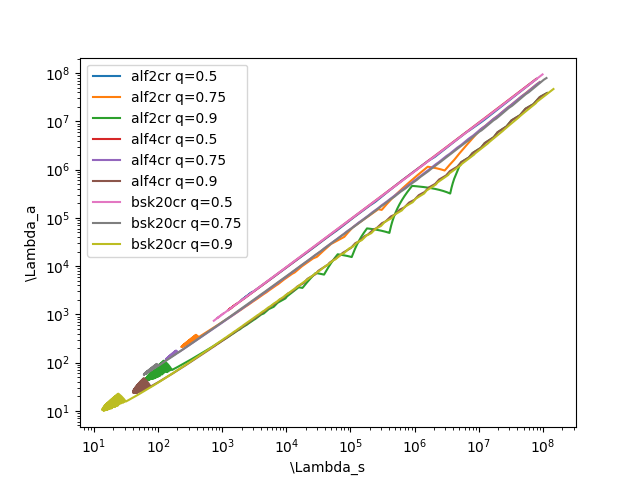
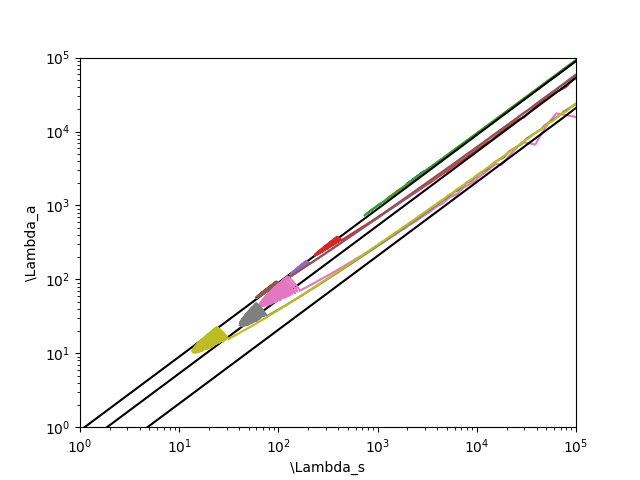
fits added over plots, fixed q and lambda_a definitions to be consistent

diff --git a/fits.py b/fits.py
@@ -1,29 +1,39 @@
 import numpy as np
 
 class YagiYunes:
-    def __init__(self):
+    def __init__(self, q):
+        self.q = q
 
         self.b = np.array([-27.7408, 8.42358, 122.686, -19.7551, -175.496, 133.708])
-        self.c = np.zeros([-25.5593, 5.58527, 92.0337, 26.8586, -70.247, -56.3076])
+        self.c = np.array([-25.5593, 5.58527, 92.0337, 26.8586, -70.247, -56.3076])
 
-        self.b = np.reshape(self.b, shape=(3, 2))
-        self.c = np.reshape(self.c, shape=(3, 2))
+        self.b = np.reshape(self.b, newshape=(3, 2))
+        self.c = np.reshape(self.c, newshape=(3, 2))
 
         self.n = 0.743
 
-    def f(self, q):
-        numerator = 1 - q**(10 / (3 - self.n))
-        denominator = 1 + q**(10 / (3 - self.n))
+    def f(self):
+        numerator = 1 - self.q**(10 / (3 - self.n))
+        denominator = 1 + self.q**(10 / (3 - self.n))
         return numerator / denominator
 
-    def __call__(self, lambda_s, q):
+    def func(self, lambda_s):
         numerator_sum = 0
         denominator_sum = 0
         for i in range(1, 4):
-            for j in range(1, 4):
-                numerator_sum += self.b[i-1, j-1] * q**j * lambda_s**(-i / 5)
-                denominator_sum += self.c[i-1, j-1] * q**j * lambda_s**(-i / 5)
+            for j in range(1, 3):
+                numerator_sum += (self.b[i-1, j-1] * self.q**j * lambda_s**(-i / 5))
+                denominator_sum += (self.c[i-1, j-1] * self.q**j * lambda_s**(-i / 5))
 
         fraction = (1 + numerator_sum) / (1 + denominator_sum)
-        result = self.f(q=q) * lambda_s * fraction
+        result = self.f() * lambda_s * fraction
         return result
+
+    def plot(self, ax, **kwargs):
+        lambda_s = np.linspace(*ax.get_xlim(), 1000, dtype=complex) # complex for fractional root in numpy
+        lambda_a = self.func(lambda_s)
+
+        lambda_s = np.real(lambda_s) # imaginary parts should be all zero
+        lambda_a = np.real(lambda_a)
+
+        ax.plot(lambda_s, lambda_a, label='Yagi & Yunes fit for q=' + str(self.q), color='black', **kwargs)

diff --git a/main.py b/main.py
@@ -2,25 +2,36 @@ import matplotlib.pyplot as plt
 
 from data_loader import DataLoader
 from eos import EOS
+from fits import YagiYunes
 
+# plt.rcParams.update({
+#     "text.usetex": True,
+#     "font.family": "Helvetica"
+# })
 
 def plot_main(names, qs):
     fig, ax = plt.subplots(1, 1)
-    for name in names:
-        for q in qs:
+    for q in qs:
+        for name in names:
             data = DataLoader('data/macro-' + name + '.csv')
             eos = EOS(data, name=name, q=q)
             eos.plot(ax=ax)
 
-    # ax.set_ylim((10, 10000))
-    # ax.set_xlim((10, 10000))
+        fit = YagiYunes(q=q)
+        fit.plot(ax=ax)
+
+    ax_min = 1
+    ax_max = 1e5
+
+    ax.set_ylim((ax_min, ax_max))
+    ax.set_xlim((ax_min, ax_max))
 
     ax.set_xscale('log')
     ax.set_yscale('log')
 
     ax.set_xlabel(r'\Lambda_s')
     ax.set_ylabel(r'\Lambda_a')
-    plt.legend()
+    # plt.legend()
 
     plt.savefig('plots/plot.png')
 
@@ -44,4 +55,5 @@ def plot_raw(names):
 names = ['alf2cr', 'alf4cr', 'bsk20cr']
 qs = [0.5, 0.75, 0.9]
 
-plot_raw(names=names)
+plot_main(names=names, qs=qs)
+# plot_raw(names=names)

diff --git a/eos.py b/eos.py
@@ -11,7 +11,7 @@ class EOS:
         self.lambda_f = sp.interpolate.interp1d(x=self.ms, y=self.Lambdas)
 
         m1 = np.linspace(np.min(self.ms), np.max(self.ms), 10000)
-        m2 = m1 / self.q
+        m2 = m1 * self.q
 
         filter = (m2 > np.min(self.ms)) & (m2 < np.max(self.ms)) # so that lambda can be interpolated over m2
 
@@ -21,8 +21,10 @@ class EOS:
         lambda_m1 = self.lambda_f(self.m1)
         lambda_m2 = self.lambda_f(self.m2)
 
-        self.lambda_s = (lambda_m1 + lambda_m2) / 2
-        self.lambda_a = (lambda_m1 - lambda_m2) / 2
+        self.lambda_s = (lambda_m2 + lambda_m1) / 2
+        self.lambda_a = (lambda_m2 - lambda_m1) / 2
+
+        print(self.lambda_a)
 
     def plot(self, ax, **kwargs):
         ax.plot(self.lambda_s, self.lambda_a, label=self.name + ' q=' + str(self.q), **kwargs)
